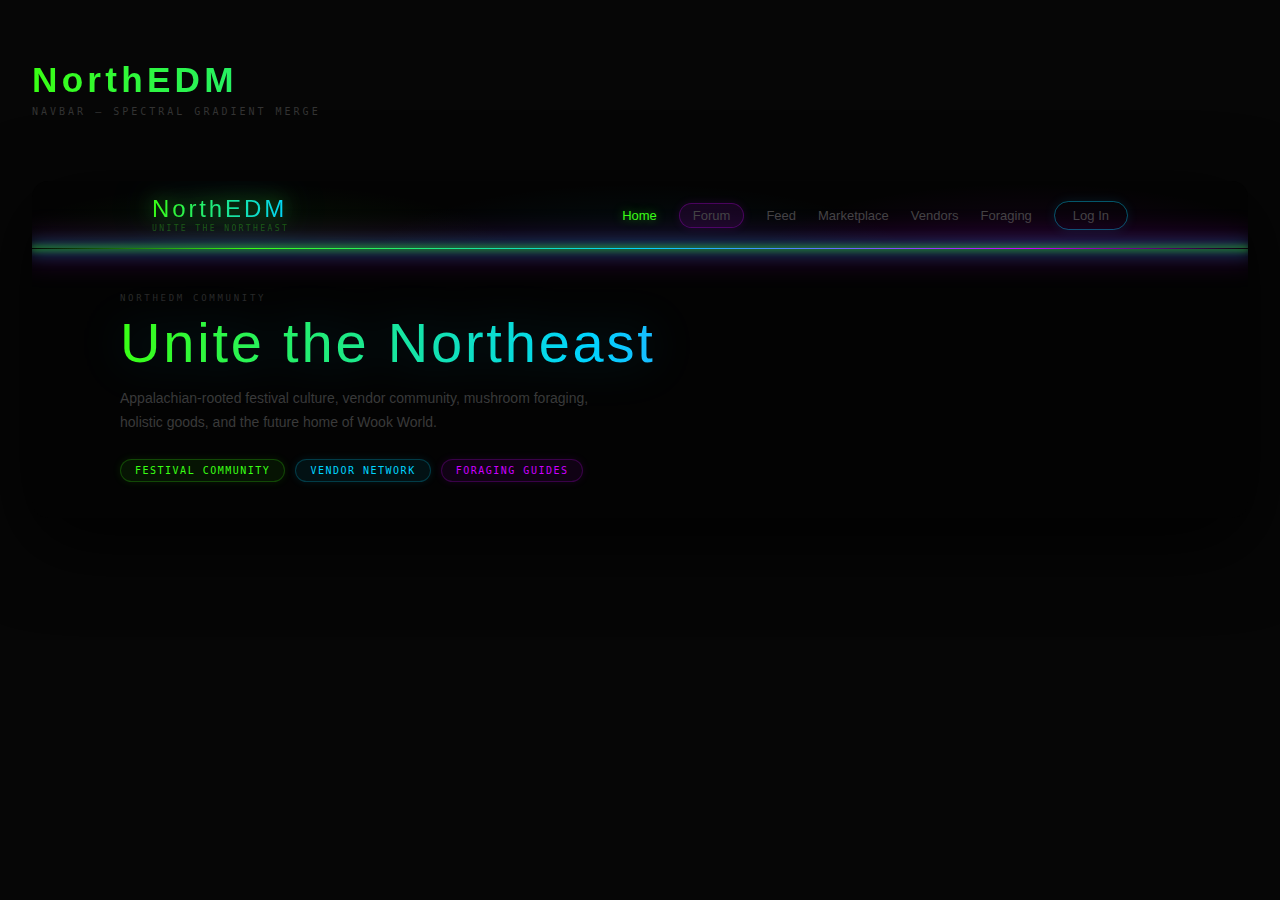
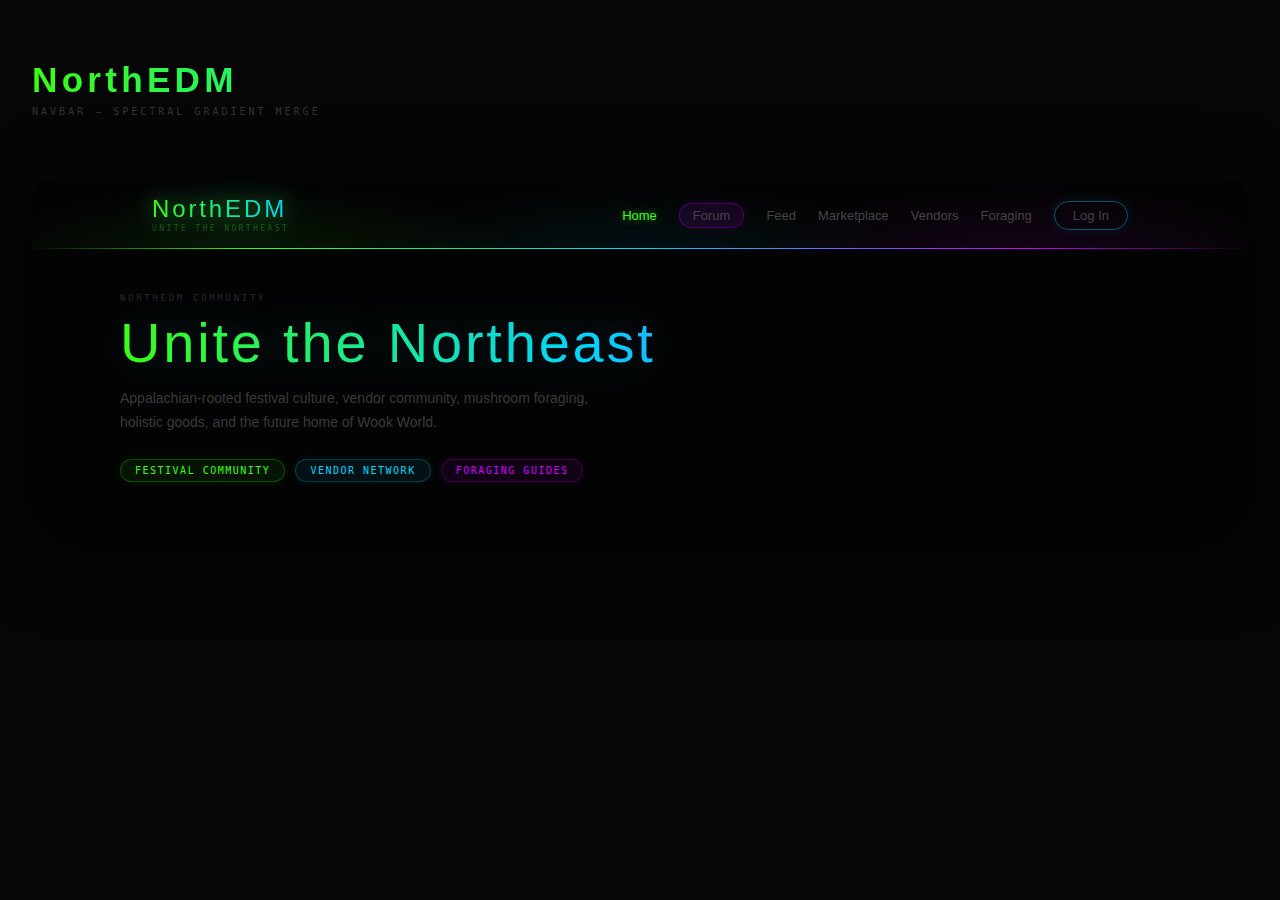
Sharpen spectral gradient line to hard 1px edge
Removed box-shadow glow from header border — line is now a clean,
stark neon green → blue → purple gradient with no blur or bloom.

https://claude.ai/code/session_013NSY1XZgqnHJoGBab8Kpqm

Changed region(s): [[0.0, 0.2489, 1.0, 0.3111]]

diff --git a/public/navbar-templates.html b/public/navbar-templates.html
@@ -50,12 +50,12 @@
       position: relative;
     }
 
-    /* Stark spectral line — sharp gradient, no blur */
+    /* Stark spectral line — hard edge, no blur, no glow */
     .header::after {
       content: '';
       position: absolute;
       bottom: 0; left: 0; right: 0;
-      height: 1.5px;
+      height: 1px;
       background: linear-gradient(90deg,
         transparent  0%,
         #39FF14     18%,
@@ -63,10 +63,6 @@
         #CC00FF     82%,
         transparent 100%
       );
-      box-shadow:
-        0 0  6px 1px rgba(57,255,20,0.7),
-        0 0 16px 3px rgba(0,212,255,0.5),
-        0 0 30px 6px rgba(204,0,255,0.35);
     }
 
     /* Stage-light radial color wash bleeding UP from bottom */